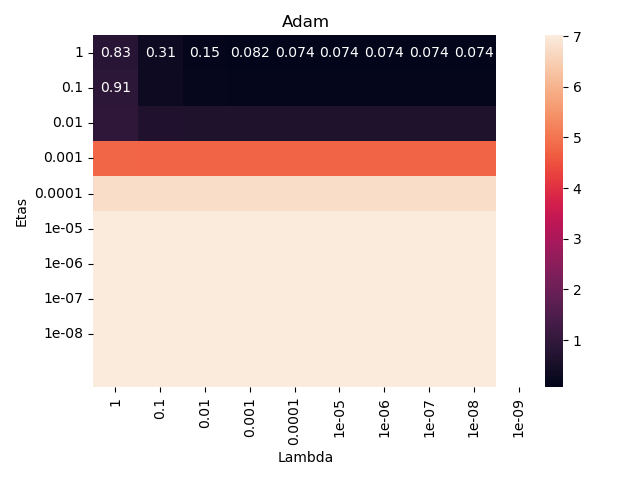
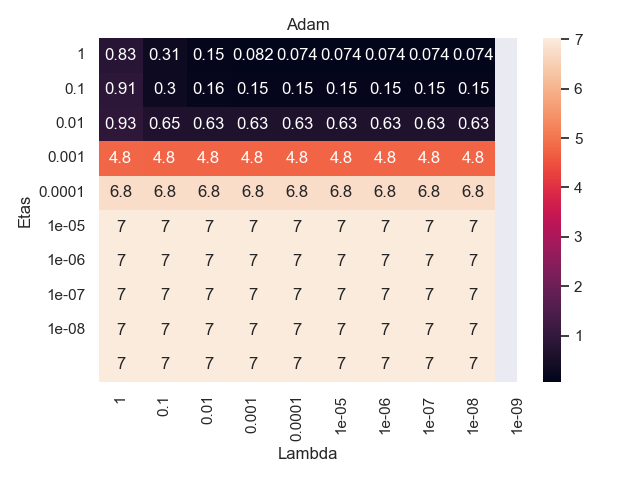
runing partA ridge to get images

diff --git a/partARidge.py b/partARidge.py
@@ -76,6 +76,9 @@ import os
 from pathlib import Path
 import seaborn as sns
 
+sns.set_theme()
+
+
 #Define path for saving plots
 cwd = os.getcwd()
 path = Path(cwd) / "FigurePlots" / "Gradienet_descent_MSE_Ridge"
@@ -355,8 +358,7 @@ plt.savefig(path / "PartARidgeHeatMap.png")
 #Print array of all the best cost function value, minimized over eta value, axis are methods and lambda values.
 print(f"Best MSE array: {np.asarray(MSE_best_by_method)}")
 
-
-'''
+"""
 #Plot MSE by gradient method
 plt.figure()
 plt.bar(range(0, 2*len(MSE_method_names), 2), MSE_best_by_method,  tick_label =MSE_method_names)
@@ -364,8 +366,6 @@ plt.title("Best MSE error by gradient descent method for Ridge")
 plt.xticks(rotation=-30)
 plt.tight_layout()
 plt.savefig(path / "PartARidge.png")
-'''
-
-
+"""
 
 

diff --git a/partBCrossValidated.py b/partBCrossValidated.py
@@ -11,6 +11,10 @@ from activation_functions import *
 from sklearn.model_selection import train_test_split
 import matplotlib.pyplot as plt
 
+import seaborn as sns
+
+sns.set_theme()
+
 #Define path for saving figures.
 import os
 from pathlib import Path

diff --git a/partB.py b/partB.py
@@ -9,6 +9,9 @@ from schedulers import *
 from activation_functions import *
 from sklearn.model_selection import train_test_split
 import matplotlib.pyplot as plt
+import seaborn as sns
+
+sns.set_theme()
 
 #Define path for saving figures.
 import os
